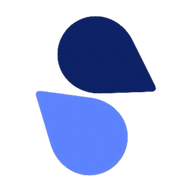
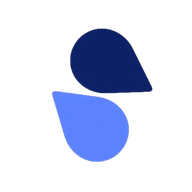
All fresh

Changed region(s): [[0.1875, 0.0625, 0.8125, 0.9375]]

diff --git a/src/app/layout.tsx b/src/app/layout.tsx
@@ -45,16 +45,13 @@ export async function generateMetadata(): Promise<Metadata> {
     },
     twitter: { card: "summary_large_image", title: orgName, description },
     icons: {
-      icon: settings?.faviconUrl
-        ? [{ url: `${settings.faviconUrl}${settings.faviconUrl.includes("?") ? "&" : "?"}v=${encodeURIComponent(settings.faviconPath || "custom")}` }]
-        : [
-            { url: "/favicon.ico?v=4", type: "image/x-icon", sizes: "16x16 32x32 48x48 64x64" },
-            { url: "/icon.svg?v=4", type: "image/svg+xml" },
-          ],
-      apple: settings?.faviconUrl
-        ? `${settings.faviconUrl}${settings.faviconUrl.includes("?") ? "&" : "?"}v=${encodeURIComponent(settings.faviconPath || "custom")}`
-        : "/apple-icon.png?v=4",
+      icon: [
+        { url: "/favicon.ico?v=salem-20260917", type: "image/x-icon", sizes: "16x16 32x32 48x48 64x64" },
+        { url: "/icon.png?v=salem-20260917", type: "image/png", sizes: "512x512" },
+      ],
+      apple: "/apple-icon.png?v=salem-20260917",
     },
+    manifest: "/site.webmanifest",
     robots: seo.robotsIndex === false ? { index: false, follow: false } : { index: true, follow: true },
     verification: seo.googleSiteVerification ? { google: seo.googleSiteVerification } : undefined,
   };
@@ -104,12 +101,6 @@ export default async function RootLayout({ children }: { children: React.ReactNo
           rel="stylesheet"
           href="https://fonts.googleapis.com/css2?family=Poppins:ital,wght@0,300;0,400;0,500;0,600;0,700;1,400&display=swap"
         />
-        {settings?.faviconUrl ? (
-          <link
-            rel="icon"
-            href={`${settings.faviconUrl}${settings.faviconUrl.includes("?") ? "&" : "?"}v=${encodeURIComponent(settings.faviconPath || "custom")}`}
-          />
-        ) : null}
       </head>
       <body className="antialiased">
         {seo.googleAnalyticsId ? (

diff --git a/src/components/salem/Logo.tsx b/src/components/salem/Logo.tsx
@@ -1,37 +1,8 @@
 export function SalemMark({ className = "h-10 w-10" }: { className?: string }) {
   return (
-    <svg
-      viewBox="0 0 48 48"
-      className={className}
-      role="img"
-      aria-label="Salem Medical Laboratories mark"
-    >
-      <defs>
-        <linearGradient id="salem-mark" x1="0" y1="0" x2="1" y2="1">
-          <stop offset="0%" stopColor="oklch(0.799 0.127 205.9)" />
-          <stop offset="55%" stopColor="oklch(0.635 0.168 266.7)" />
-          <stop offset="100%" stopColor="oklch(0.416 0.143 324.6)" />
-        </linearGradient>
-      </defs>
-      <path
-        d="M24 2.5 42 12.8v22.4L24 45.5 6 35.2V12.8Z"
-        fill="oklch(0.277 0.122 265.7)"
-        stroke="url(#salem-mark)"
-        strokeWidth="1.6"
-      />
-      <path
-        d="M24 12c4.6 5.4 7 9 7 12.2A7 7 0 0 1 17 24.2C17 21 19.4 17.4 24 12Z"
-        fill="url(#salem-mark)"
-      />
-      <path
-        d="M15 33.5h5.2l2.1-4.4 2.6 6.2 2.2-3.6H33"
-        fill="none"
-        stroke="oklch(0.94 0.035 205.9)"
-        strokeWidth="1.7"
-        strokeLinecap="round"
-        strokeLinejoin="round"
-      />
-    </svg>
+    // The supplied Salem mark is the brand source of truth.
+    // eslint-disable-next-line @next/next/no-img-element
+    <img src="/salem-brand-mark.png" alt="Salem Medical Laboratories mark" className={`${className} object-contain`} />
   );
 }
 

diff --git a/src/app/admin/(dashboard)/layout.tsx b/src/app/admin/(dashboard)/layout.tsx
@@ -14,8 +14,7 @@ import { AdminBrandingProvider } from "@/lib/auth/adminBrandingContext";
  * The real site logo is fetched here (once, server-side) and provided via
  * AdminBrandingProvider so AdminShell.tsx — a Client Component rendered
  * from ~20 different pages — can show the actual uploaded Salem logo
- * instead of the built-in placeholder mark it previously always fell back
- * to (Advanced 7 QA §1).
+ * using the current Salem brand asset when CMS branding is unavailable.
  */
 export default async function AdminDashboardLayout({ children }: { children: ReactNode }) {
   await requireStaff();
@@ -26,7 +25,7 @@ export default async function AdminDashboardLayout({ children }: { children: Rea
     logoUrl = settings.logoUrl;
   } catch {
     // Never let a settings-fetch hiccup break the admin area — fall back
-    // to the placeholder mark, same posture as the public root layout.
+    // to the local Salem brand asset, same posture as the public root layout.
   }
 
   return <AdminBrandingProvider logoUrl={logoUrl}>{children}</AdminBrandingProvider>;

diff --git a/src/lib/auth/adminBrandingContext.tsx b/src/lib/auth/adminBrandingContext.tsx
@@ -6,7 +6,7 @@ import { createContext, useContext, type ReactNode } from "react";
  * Bridges the real site logo (fetched server-side from `site_settings` in
  * src/app/admin/(dashboard)/layout.tsx) down to AdminShell.tsx, which is a
  * Client Component and can't fetch it itself. Fixes the admin area
- * permanently showing the built-in placeholder mark instead of whatever
+ * permanently showing a stale placeholder mark instead of whatever
  * logo has been uploaded in Admin > Settings, without needing to thread a
  * `logoUrl` prop through every one of the ~20 admin pages that render
  * AdminShell.
